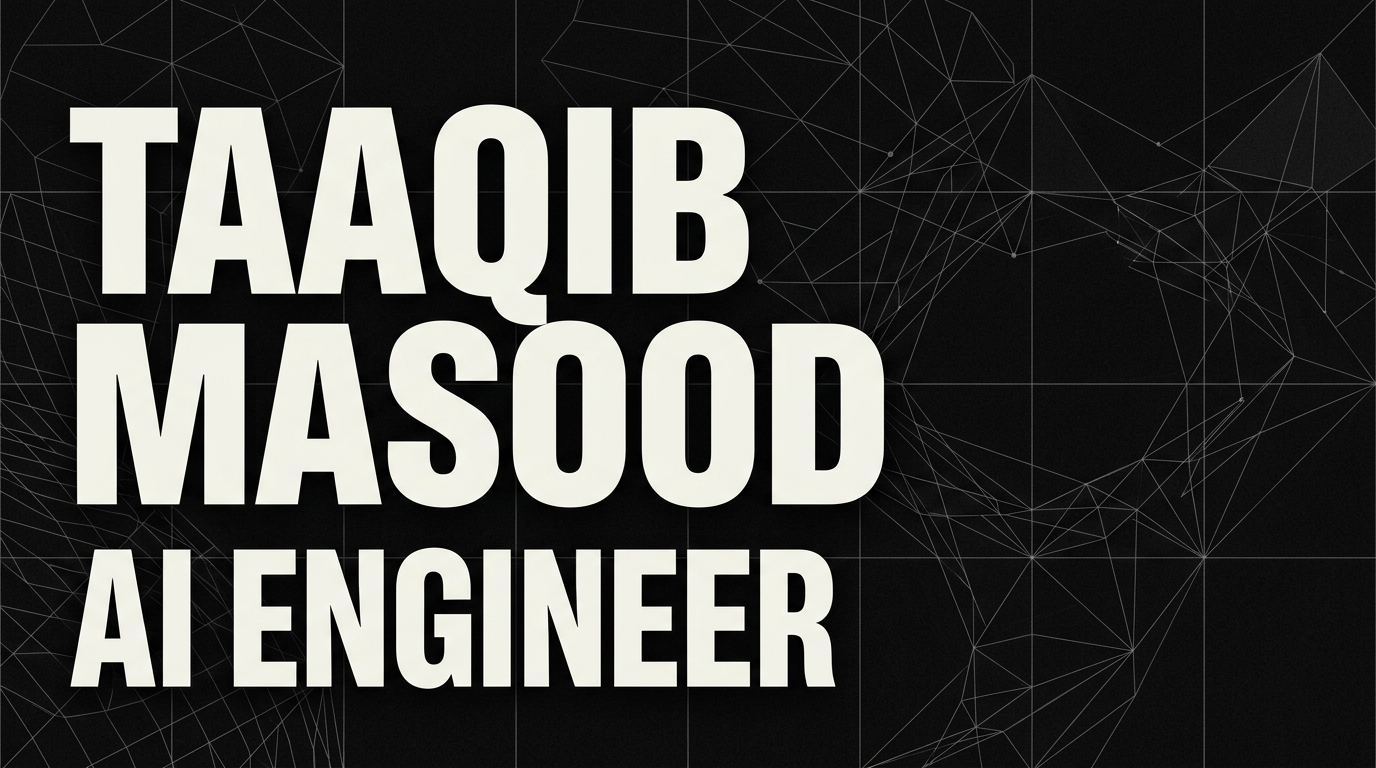
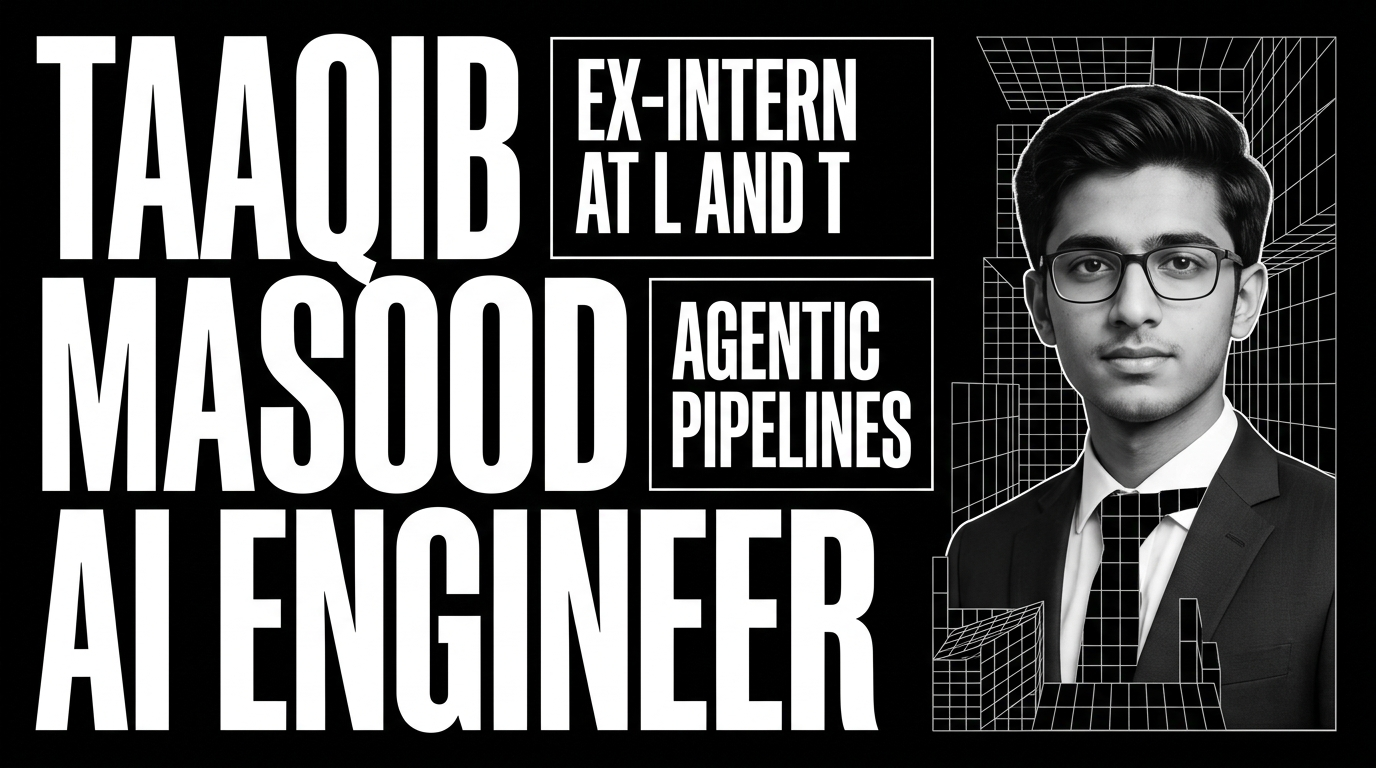
feat: design high-impact Swiss Brutalist OpenGraph share thumbnail & make metadataBase dynamic for Vercel

diff --git a/src/app/layout.tsx b/src/app/layout.tsx
@@ -19,14 +19,20 @@ const outfit = Outfit({
   variable: "--font-outfit",
 });
 
+const siteUrl = process.env.VERCEL_PROJECT_PRODUCTION_URL
+  ? `https://${process.env.VERCEL_PROJECT_PRODUCTION_URL}`
+  : process.env.VERCEL_URL
+  ? `https://${process.env.VERCEL_URL}`
+  : "https://taaqib-portfolio.vercel.app";
+
 export const metadata: Metadata = {
-  metadataBase: new URL("https://taaqib-masood.github.io"),
+  metadataBase: new URL(siteUrl),
   title: "Taaqib Masood | AI Engineer",
   description: "AI engineer building systems where the model isn't the demo, it's the infrastructure. LLM Agents, RAG, MCP, Full-Stack.",
   openGraph: {
     title: "Taaqib Masood | AI Engineer",
     description: "AI engineer building systems where the model isn't the demo, it's the infrastructure.",
-    url: "https://taaqib-masood.github.io",
+    url: siteUrl,
     siteName: "Taaqib Masood",
     locale: "en_US",
     type: "website",
